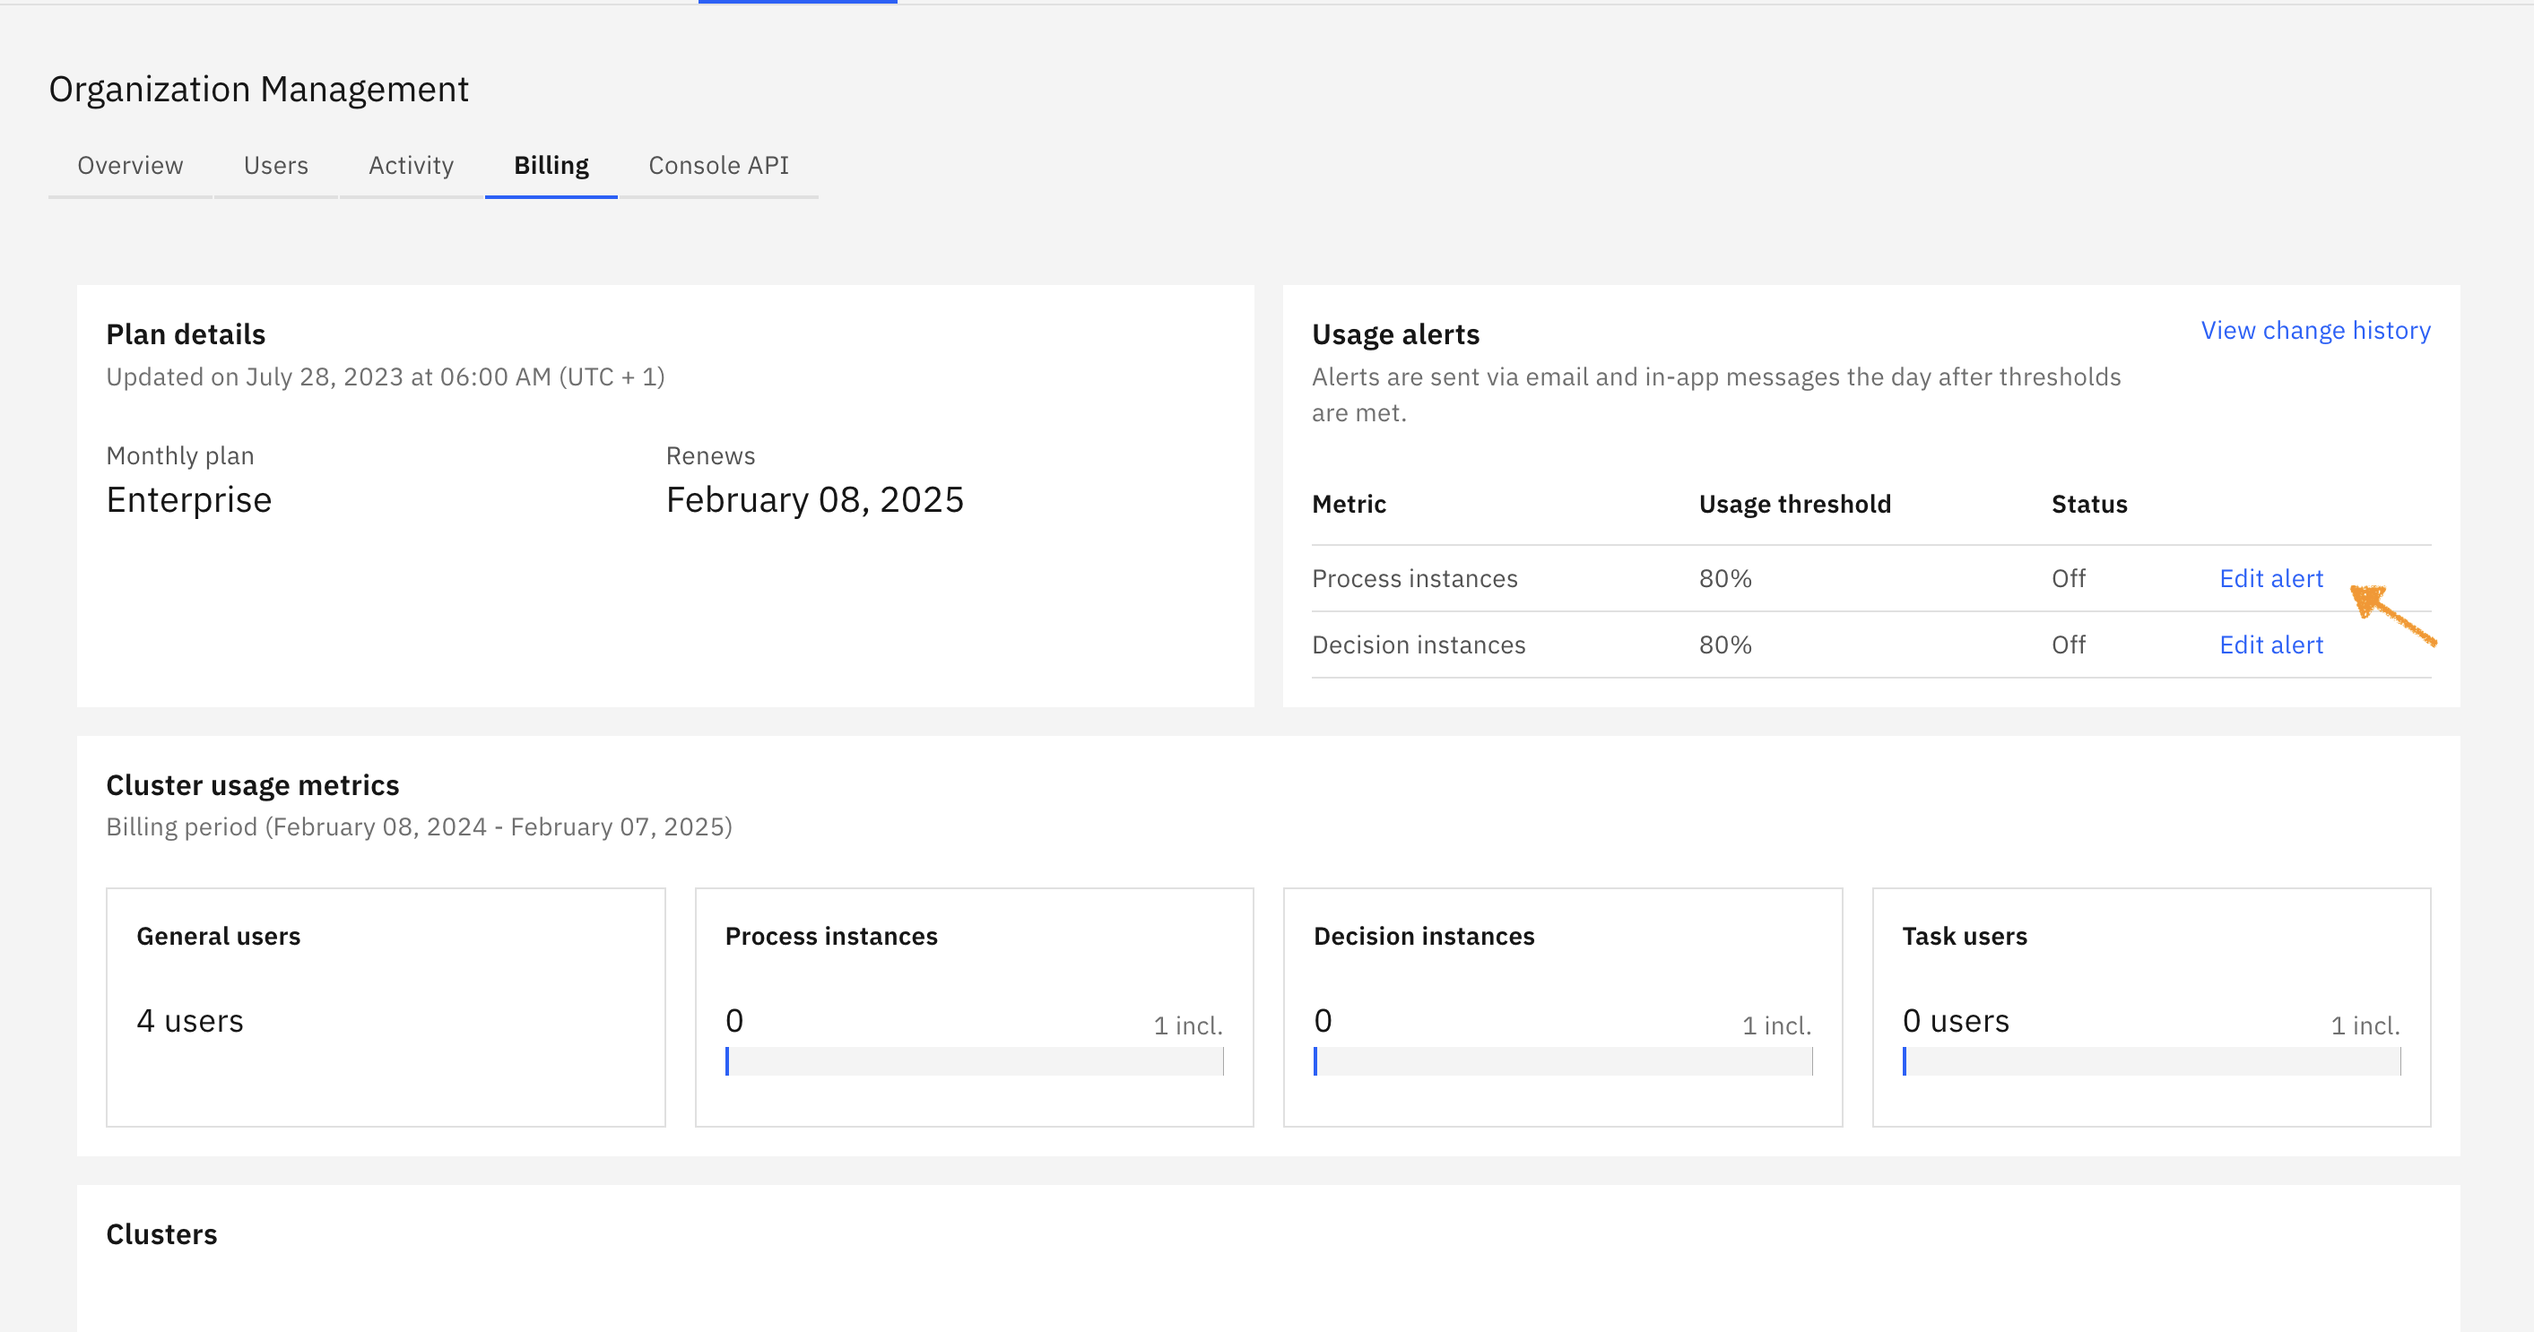
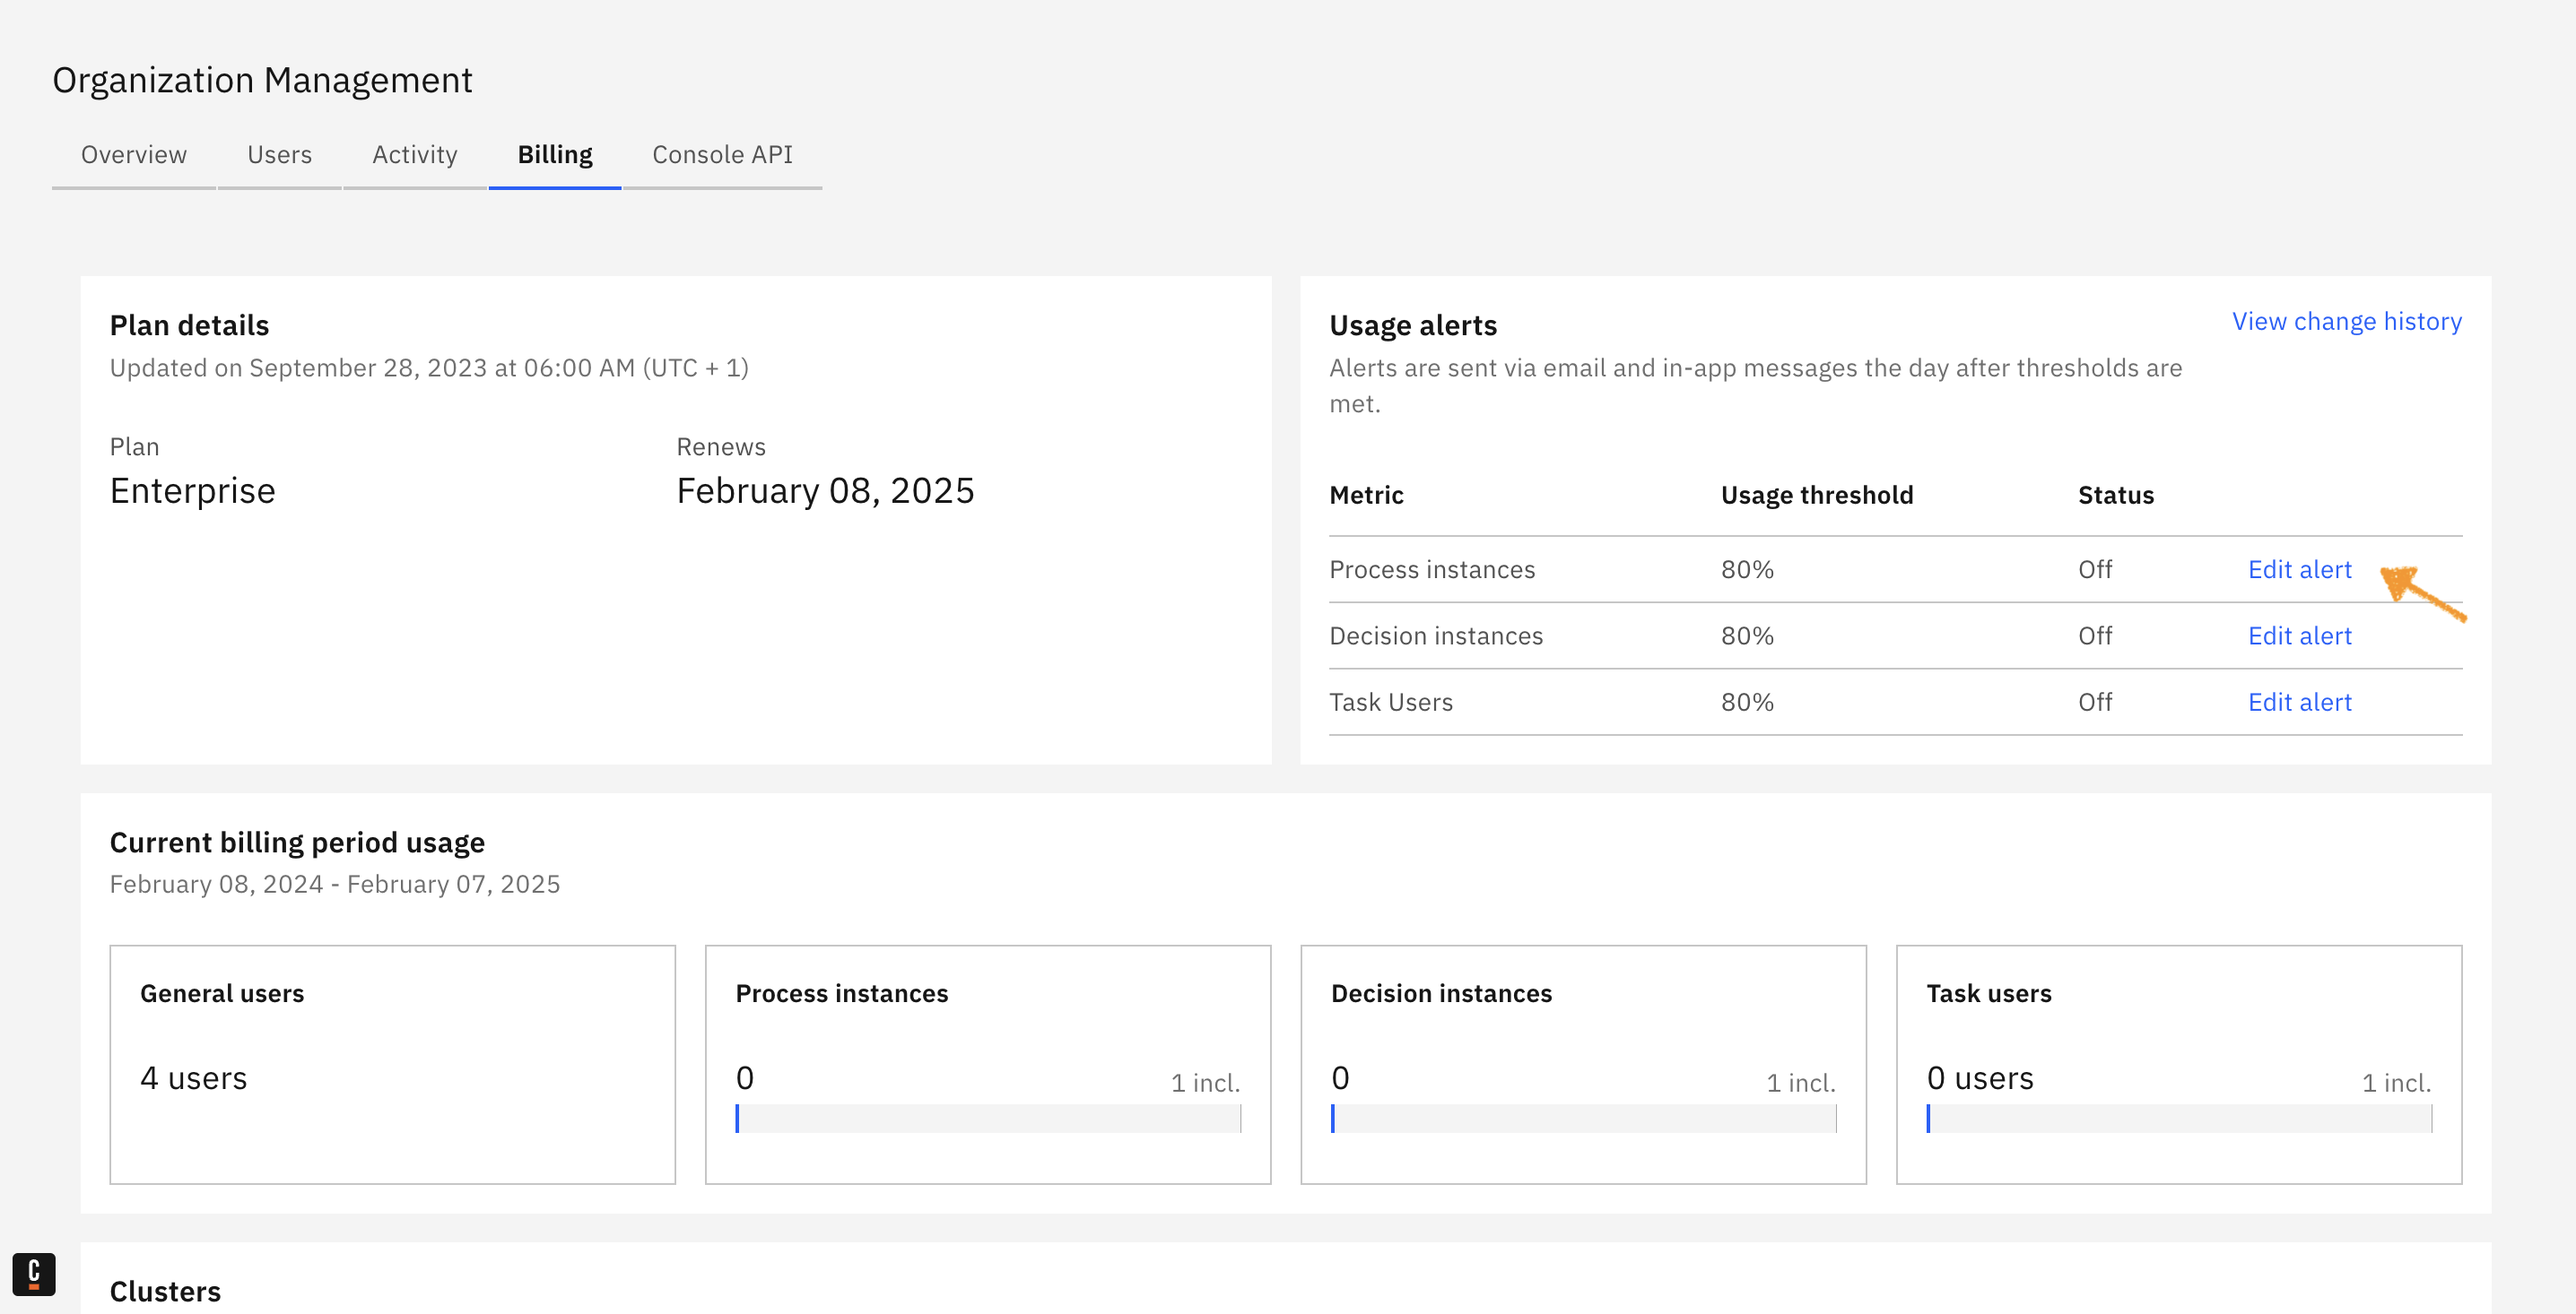
Update 8.2 and image edit_usage_alert

diff --git a/docs/components/console/manage-organization/usage-alerts.md b/docs/components/console/manage-organization/usage-alerts.md
@@ -1,14 +1,14 @@
 ---
 id: usage-alerts
 title: Usage Alerts
-description: "As an organization owner or admin, set up alerts for process instances and decision instances."
+description: "As an organization owner or admin, set up alerts for process instances, decision instances and task users."
 ---
 
 :::note
 Usage alerts apply **only to production clusters** and are visible only to owners and admins in **Starter** and **Enterprise** organizations.
 :::
 
-Under the **Billing** tab, organization owners and admins can set up alerts for process instances and decision instances.
+Under the **Billing** tab, organization owners and admins can set up alerts for process instances, decision instances and task users.
 Usage is calculated daily. When the threshold for an alert is met, all organization owners and admins are alerted via email and in-app notification.
 
 ## Creating a usage alert
